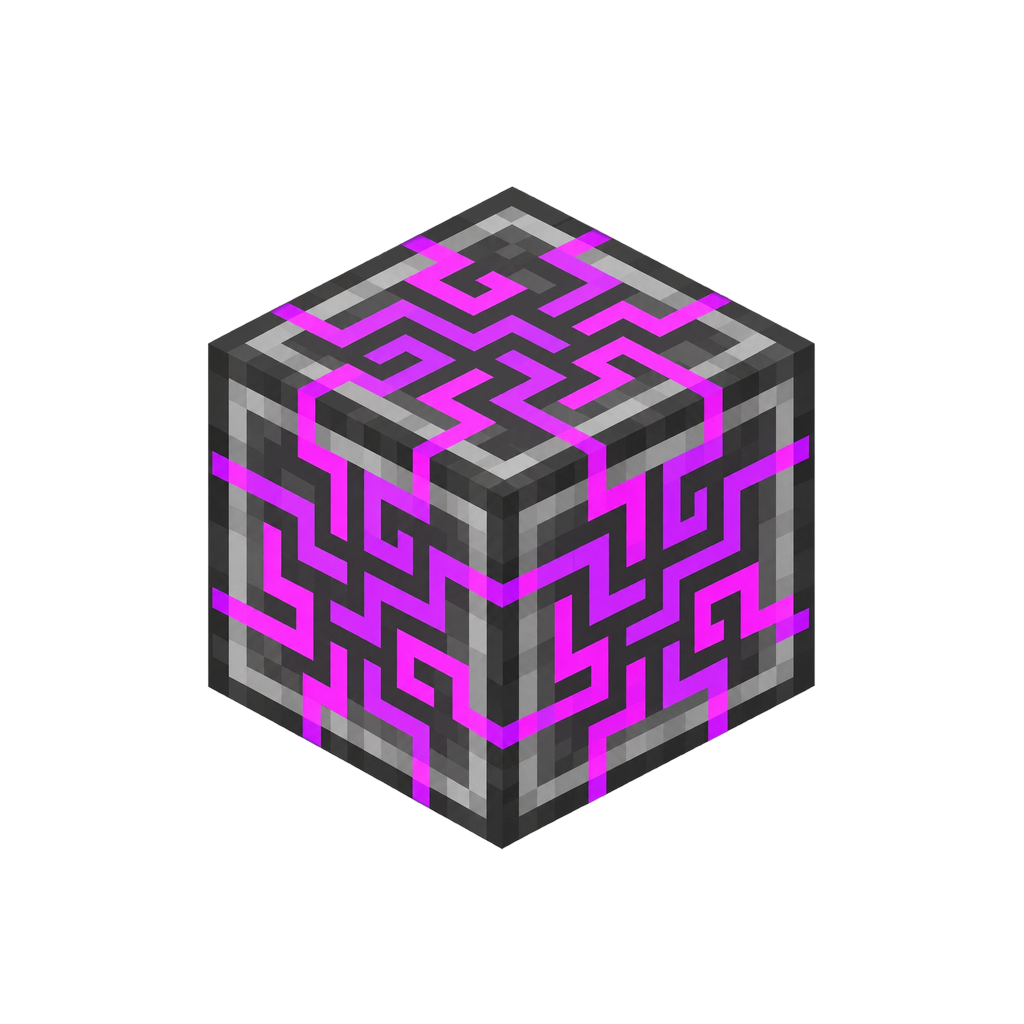
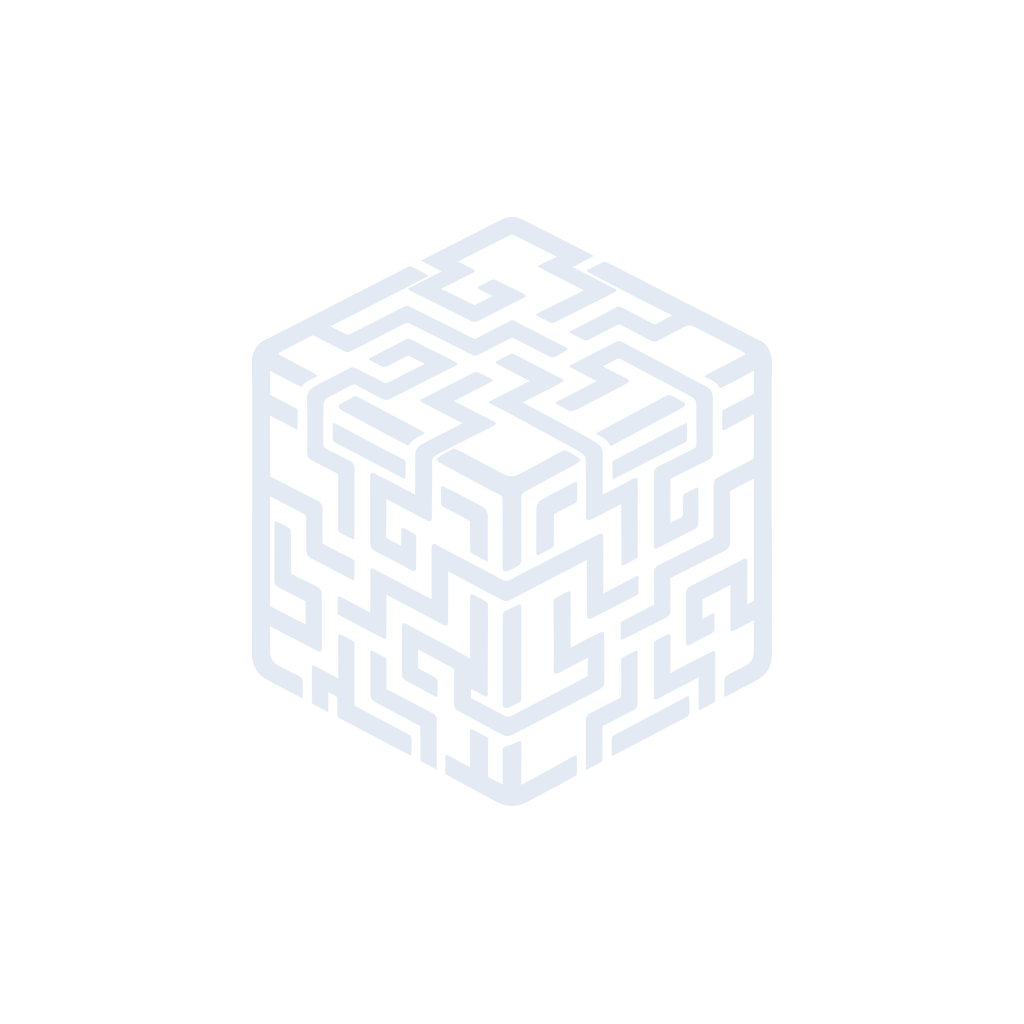
chore(asset): 同步图标源文件与 prebuild 配置
assets/icon.png、assets/adaptive-icon.png 还是旧图标，app.config.js 的
adaptiveIcon.backgroundColor 还是 #ffffff。这三处只在 prebuild 时生效，
但不同步的话下次 prebuild 会把新图标盖回旧的。

Changed region(s): [[0.1875, 0.1875, 0.8125, 0.8438]]

diff --git a/app.config.js b/app.config.js
@@ -18,7 +18,7 @@ module.exports = {
     "android": {
       "adaptiveIcon": {
         "foregroundImage": "./assets/adaptive-icon.png",
-        "backgroundColor": "#ffffff",
+        "backgroundColor": "#0F162E",
       },
       "package": "dev.youtiao.aemonitor",
       "versionCode": 35
